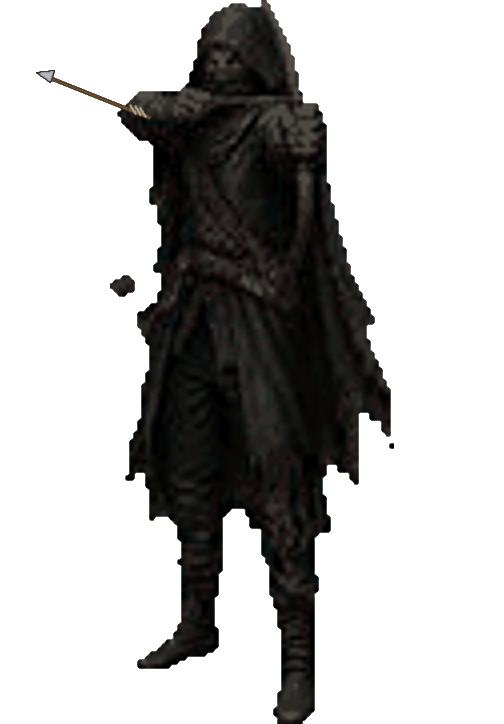
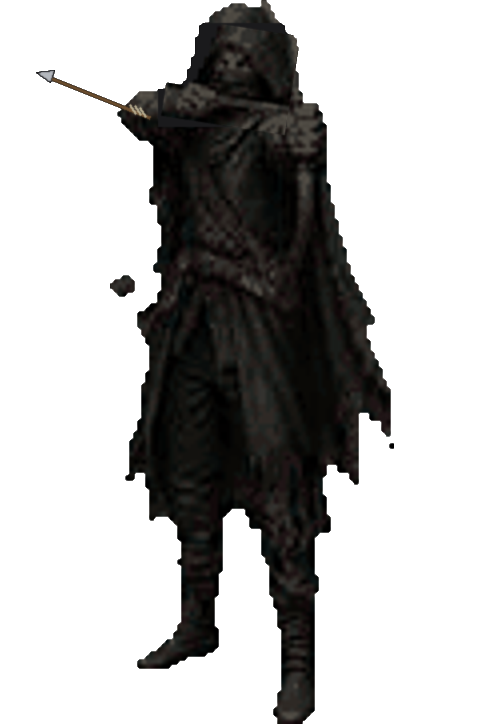
v0.63: head twists, sword lifts and a different attack mouth for each creature

Changed region(s): [[0.2976, 0.0304, 0.5952, 0.1823]]

diff --git a/index.html b/index.html
@@ -21,7 +21,7 @@
    BELOW THE ABBEY  -  a small grid-based first-person dungeon crawler
    Design space 480x320 (canvas is 2x).  3D viewport is 420x210 design units.
    ========================================================================== */
-const VERSION='0.62';
+const VERSION='0.63';
 const FUI="'IM Fell English SC',Georgia,serif", FTXT="'IM Fell English',Georgia,serif", FTITLE="'UnifrakturCook','IM Fell English SC',Georgia,serif";
 const DW=480, DH=320;
 const cv=document.getElementById('c'), ctx=cv.getContext('2d');
